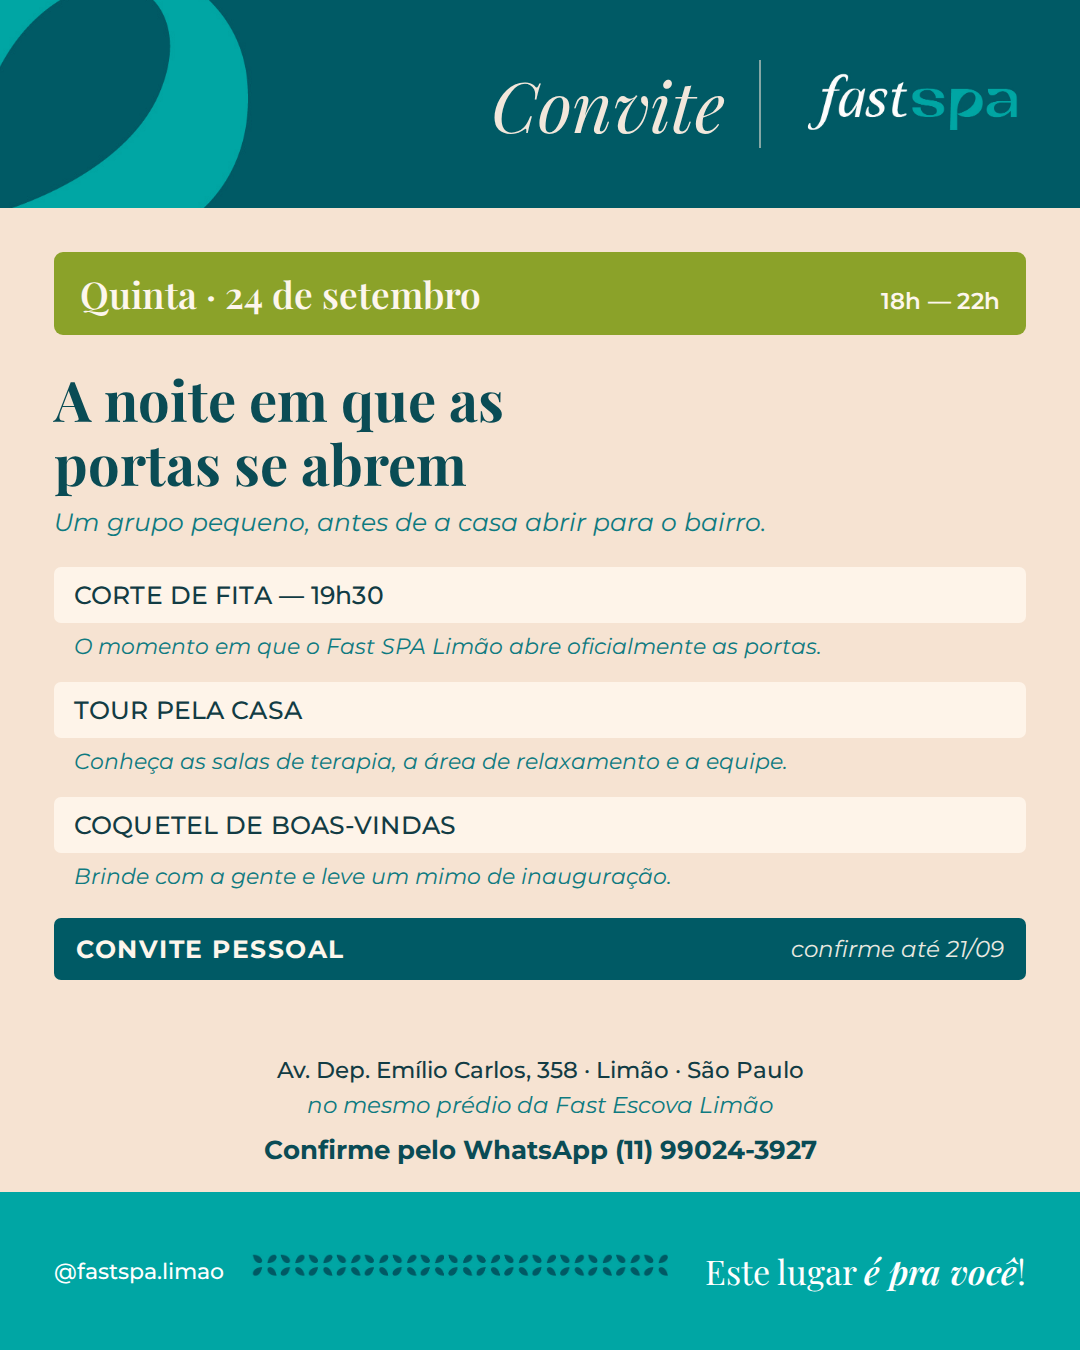
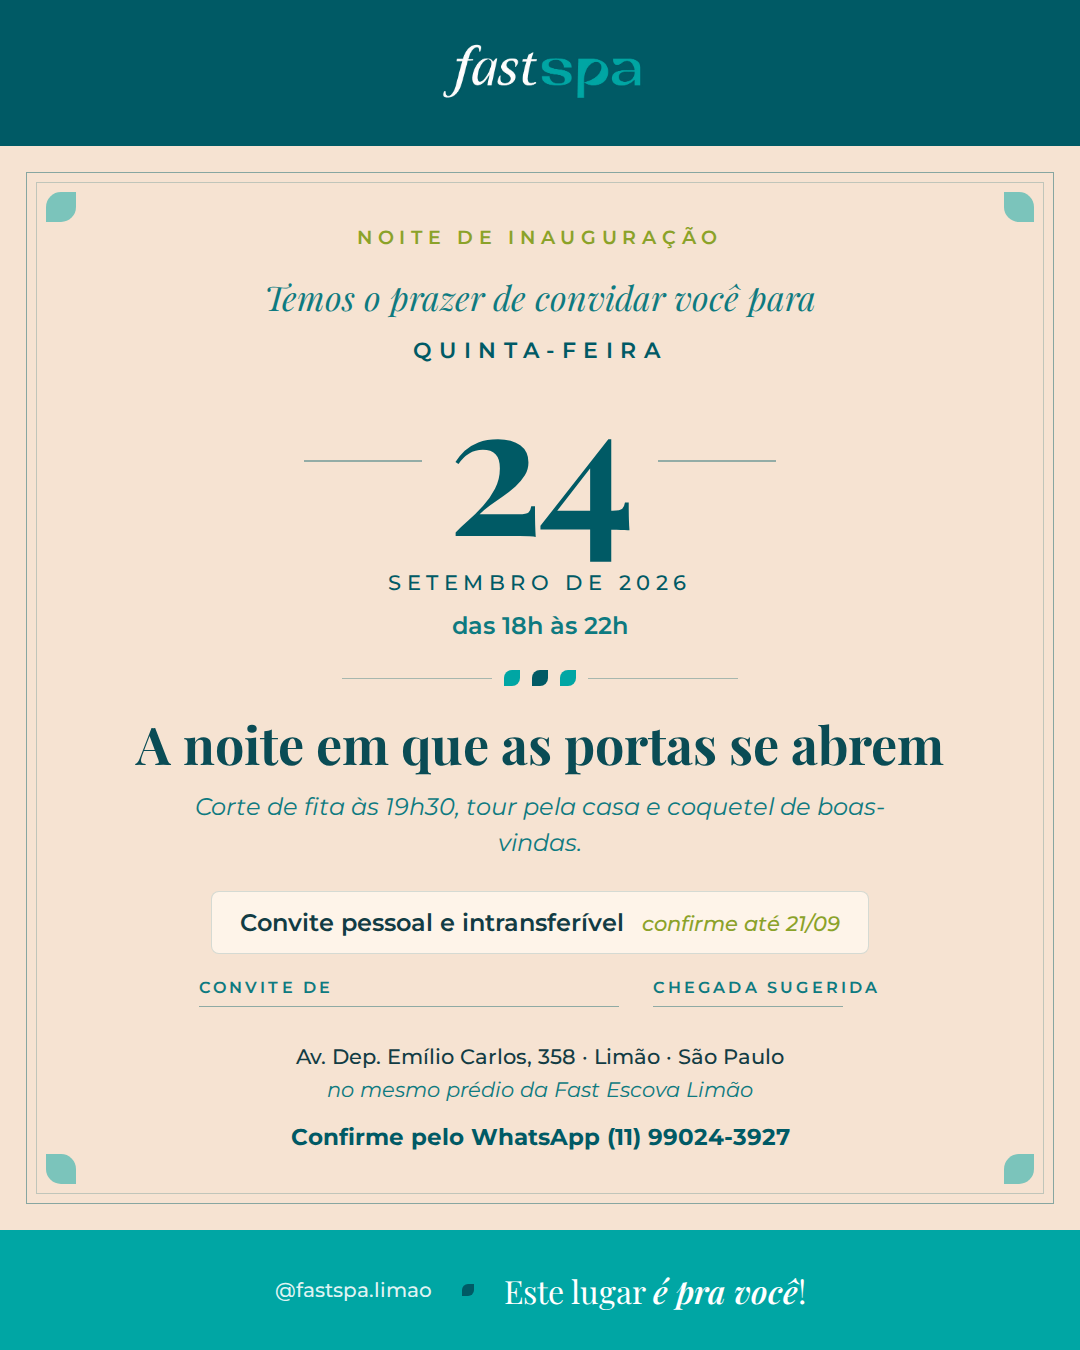
redesign(convites): composição de convite, não de tabela
Recompõe as quatro peças com cara de convite mantendo a paleta e a marca:
tarja da marca no topo, moldura dupla com pétalas nos cantos, chamada
("Você está convidada para"), data em destaque entre fios, cortesia em
uma linha e campos manuscritos para nome e horário. Ornamentos de pétala
agora são desenhados em CSS, nas cores da paleta.

Claude-Session: https://claude.ai/code/session_01RuVKoBzerrtwzTvPt2dZAB

Changed region(s): [[0.0, 0.0, 1.0, 0.7467], [0.0, 0.7778, 1.0, 0.9644], [0.0, 0.0, 0.0611, 0.0622]]

diff --git a/docs/convites/gerar_convites.py b/docs/convites/gerar_convites.py
@@ -1,11 +1,13 @@
 #!/usr/bin/env python3
 """Gera os 4 convites (1080x1350) da inauguração do Fast SPA Limão.
 
-Segue o padrão da Tabela de Serviços oficial (arte_5.pdf):
-  verde-petróleo #005A65 · pêssego #F6E3D2 · linha creme #FEF4E9
-  oliva #8BA229 · turquesa #00A6A4 · carvão #555350
+Paleta e marca da arte oficial (arte_5.pdf):
+  verde-petróleo #005A65 · turquesa #00A6A4 · pêssego #F6E3D2
+  creme #FEF4E9 · oliva #8BA229 · verde claro #C9DC94
   títulos em Playfair Display · textos em Montserrat
-A marca e os ornamentos foram recortados da própria arte (pasta marca/).
+Composição de convite: tarja da marca, moldura dupla, data em destaque,
+campo para o nome e o horário, e a assinatura da rede no rodapé.
+Os ornamentos de pétala são desenhados em CSS, na cor da paleta.
 
 Uso: python3 gerar_convites.py   (precisa do Chromium do Playwright)
 """
@@ -18,67 +20,47 @@ CHROME = "/opt/pw-browsers/chromium_headless_shell-1194/chrome-linux/headless_sh
 CARDS = [
     dict(
         arq="convite-24-qui",
-        barra="Quinta · 24 de setembro", horas="18h — 22h",
-        titulo="A noite em que as<br>portas se abrem",
-        linha="Um grupo pequeno, antes de a casa abrir para o bairro.",
-        itens=[
-            ("CORTE DE FITA — 19h30",
-             "O momento em que o Fast SPA Limão abre oficialmente as portas."),
-            ("TOUR PELA CASA",
-             "Conheça as salas de terapia, a área de relaxamento e a equipe."),
-            ("COQUETEL DE BOAS-VINDAS",
-             "Brinde com a gente e leve um mimo de inauguração."),
-        ],
-        destaque="CONVITE PESSOAL", destaque_dir="confirme até 21/09",
-        destaque_bg="#005A65", destaque_fg="#FDF6EC",
+        kicker="Noite de inauguração",
+        abre="Temos o prazer de convidar você para",
+        dow="quinta-feira", num="24", mes="setembro de 2026", horas="das 18h às 22h",
+        titulo="A noite em que as portas se abrem",
+        sub="Corte de fita às 19h30, tour pela casa e coquetel de boas-vindas.",
+        cortesia="Convite pessoal e intransferível",
+        cortesia_dir="confirme até 21/09",
+        campo="Convite de", campo2="chegada sugerida",
     ),
     dict(
         arq="convite-25-sex",
-        barra="Sexta · 25 de setembro", horas="10h — 20h · hora marcada",
-        titulo="Sexta é o dia<br>das clientes de casa",
-        linha="O SPA abre primeiro para quem já é da Fast.",
-        itens=[
-            ("RENOVE-SE EM 45' — sessão de 20min",
-             "Massagem personalizada: você escolhe relaxante, drenagem ou modeladora."),
-            ("DRENAGEM LINFÁTICA FACIAL — 15min",
-             "Desincha o rosto e devolve viço e leveza em poucos minutos."),
-            ("HORA MARCADA NO SEU NOME",
-             "Você chega no seu horário e não pega fila."),
-        ],
-        destaque="CORTESIA DE INAUGURAÇÃO", destaque_dir="valor R$ 149,00",
-        destaque_bg="#C9DC94", destaque_fg="#3C4F14",
+        kicker="Abertura oficial",
+        abre="Você está convidada para",
+        dow="sexta-feira", num="25", mes="setembro de 2026", horas="das 10h às 20h · hora marcada",
+        titulo="O dia das clientes de casa",
+        sub="O SPA abre primeiro para quem já é da Fast, antes do bairro.",
+        cortesia="Renove-se em 45' · sessão de 20 min",
+        cortesia_dir="cortesia · valor R$ 149",
+        campo="Convite de", campo2="seu horário",
     ),
     dict(
         arq="convite-26-sab",
-        barra="Sábado · 26 de setembro", horas="9h — 19h · hora marcada",
-        titulo="Venha<br>e traga uma amiga",
-        linha="Duas cortesias no mesmo horário, lado a lado.",
-        itens=[
-            ("VOCÊ E UMA AMIGA",
-             "As duas experimentam juntas, no mesmo horário, em salas vizinhas."),
-            ("QUICK MASSAGE — 20min",
-             "Solta pescoço, ombros e trapézio — o clássico de quem passa o dia sentada."),
-            ("MÚSICA E MINI-BAR",
-             "A casa aberta o dia inteiro, das 9h às 19h."),
-        ],
-        destaque="DUAS CORTESIAS", destaque_dir="valor R$ 118,00",
-        destaque_bg="#C9DC94", destaque_fg="#3C4F14",
+        kicker="Dia da comunidade",
+        abre="Você e uma amiga estão convidadas para",
+        dow="sábado", num="26", mes="setembro de 2026", horas="das 9h às 19h · hora marcada",
+        titulo="O dia de trazer quem você gosta",
+        sub="Duas cortesias no mesmo horário, em salas vizinhas.",
+        cortesia="Quick Massage · 20 min para as duas",
+        cortesia_dir="cortesia · valor R$ 118",
+        campo="Convite de", campo2="seu horário",
     ),
     dict(
         arq="convite-27-dom",
-        barra="Domingo · 27 de setembro", horas="10h — 17h · por ordem de chegada",
-        titulo="Domingo<br>o SPA é do bairro",
-        linha="Sem hora marcada: é chegar e conhecer.",
-        itens=[
-            ("SEM AGENDAMENTO",
-             "Chegue, pegue sua senha na entrada e aguarde pouco."),
-            ("REVITALIZAÇÃO DAS MÃOS — 10min",
-             "Hidrata intensamente e suaviza as linhas finas causadas pela rotina."),
-            ("VOUCHER PARA VOLTAR",
-             "Você sai com um voucher válido na semana seguinte."),
-        ],
-        destaque="ENTRADA LIVRE", destaque_dir="valor R$ 59,00",
-        destaque_bg="#C9DC94", destaque_fg="#3C4F14",
+        kicker="Portas abertas",
+        abre="Você está convidada para",
+        dow="domingo", num="27", mes="setembro de 2026", horas="das 10h às 17h · por ordem de chegada",
+        titulo="O domingo em que o SPA é do bairro",
+        sub="Sem hora marcada: é chegar, pegar sua senha e conhecer.",
+        cortesia="Revitalização das Mãos · 10 min",
+        cortesia_dir="cortesia · valor R$ 59",
+        campo="Convite de", campo2="",
     ),
 ]
 
@@ -89,85 +71,125 @@ html,body{{width:1080px;height:1350px;overflow:hidden}}
 body{{background:#F6E3D2;font-family:'Montserrat',sans-serif;color:#123C44;
   -webkit-font-smoothing:antialiased}}
 
-/* ---------- cabeçalho ---------- */
-.head{{height:208px;background:#005A65;position:relative;display:flex;
-  align-items:center;justify-content:flex-end;padding:0 54px 0 0;overflow:hidden}}
-.head .comma{{position:absolute;left:-26px;top:-34px;height:262px}}
-.head .titulo{{font-family:'Playfair Display',serif;font-style:italic;font-weight:400;
-  font-size:70px;color:#F2E7DB;line-height:1}}
-.head .barra{{width:2px;height:88px;background:rgba(242,231,219,.55);margin:0 34px}}
-.head .logo{{height:74px}}
+/* tarja da marca */
+.marca{{height:146px;background:#005A65;display:flex;align-items:center;justify-content:center}}
+.marca img{{height:70px}}
 
-/* ---------- corpo ---------- */
-.corpo{{padding:44px 54px 0;display:flex;flex-direction:column;height:calc(1350px - 208px - 158px)}}
+/* moldura */
+.folha{{position:relative;height:calc(1350px - 146px - 120px);padding:34px}}
+.moldura{{position:absolute;inset:26px;border:1.6px solid rgba(0,90,101,.45)}}
+.moldura::after{{content:"";position:absolute;inset:9px;border:1px solid rgba(0,90,101,.22)}}
+.canto{{position:absolute;width:30px;height:30px;background:#00A6A4;opacity:.5;
+  border-radius:50% 0 50% 0}}
+.c1{{left:46px;top:46px;transform:rotate(0deg)}}
+.c2{{right:46px;top:46px;transform:rotate(90deg)}}
+.c3{{right:46px;bottom:46px;transform:rotate(180deg)}}
+.c4{{left:46px;bottom:46px;transform:rotate(270deg)}}
 
-.faixa{{background:#8BA229;border-radius:9px;padding:17px 26px;display:flex;
-  align-items:baseline;justify-content:space-between;gap:20px}}
-.faixa b{{font-family:'Playfair Display',serif;font-weight:600;font-size:37px;color:#FDF6EC}}
-.faixa span{{font-size:23px;font-weight:600;color:#FDF6EC;letter-spacing:.01em}}
+.dentro{{position:relative;height:100%;display:flex;flex-direction:column;
+  align-items:center;text-align:center;padding:46px 80px 40px}}
 
-h1{{font-family:'Playfair Display',serif;font-weight:700;font-size:56px;line-height:1.14;
-  color:#0A4C55;margin-top:32px}}
-.linha{{font-style:italic;font-size:25px;color:#0E7A80;margin-top:12px}}
+.kicker{{font-size:19px;font-weight:600;letter-spacing:.30em;text-transform:uppercase;
+  color:#8BA229}}
+.abre{{font-family:'Playfair Display',serif;font-style:italic;font-size:34px;
+  color:#0E7A80;margin-top:26px;line-height:1.3}}
 
-.itens{{margin-top:30px;display:flex;flex-direction:column;gap:20px}}
-.item .nome{{background:#FEF4E9;border-radius:7px;padding:13px 20px;font-size:25px;
-  font-weight:500;color:#123C44;letter-spacing:.005em}}
-.item .desc{{font-style:italic;font-size:21.5px;line-height:1.45;color:#0E7A80;
-  padding:8px 20px 0}}
+/* data */
+.data{{margin-top:18px;display:flex;flex-direction:column;align-items:center}}
+.data .dow{{font-size:22px;font-weight:600;letter-spacing:.34em;text-transform:uppercase;
+  color:#005A65}}
+.data .nrow{{display:flex;align-items:center;gap:26px;margin:6px 0 18px}}
+.data .rule{{width:118px;height:1.4px;background:rgba(0,90,101,.4)}}
+.data .num{{font-family:'Playfair Display',serif;font-weight:700;font-size:182px;
+  line-height:1;color:#005A65;letter-spacing:-.02em}}
+.data .mes{{font-size:21px;font-weight:500;letter-spacing:.26em;text-transform:uppercase;
+  color:#005A65}}
+.data .horas{{margin-top:16px;font-size:24px;font-weight:600;color:#0E7A80}}
 
-.destaque{{margin-top:26px;background:{destaque_bg};border-radius:7px;padding:16px 22px;
-  display:flex;align-items:center;justify-content:space-between;gap:18px}}
-.destaque b{{font-size:25px;font-weight:700;color:{destaque_fg};letter-spacing:.06em}}
-.destaque span{{font-style:italic;font-size:23px;color:{destaque_fg};opacity:.92}}
+/* divisor com pétalas */
+.div{{display:flex;align-items:center;gap:12px;margin-top:30px}}
+.div .ln{{width:150px;height:1.2px;background:rgba(0,90,101,.32)}}
+.div .pt{{width:16px;height:16px;background:#00A6A4;border-radius:50% 0 50% 0}}
+.div .pt.d{{background:#005A65}}
 
-.local{{margin-top:auto;padding-bottom:26px;text-align:center}}
-.local .end{{font-size:23px;font-weight:500;color:#123C44;line-height:1.5}}
-.local .end em{{font-style:italic;font-weight:400;color:#0E7A80}}
-.local .zap{{margin-top:12px;font-size:26px;font-weight:700;color:#0A4C55}}
+h1{{font-family:'Playfair Display',serif;font-weight:700;font-size:52px;line-height:1.16;
+  color:#0A4C55;margin-top:28px;max-width:820px}}
+.sub{{font-style:italic;font-size:24px;line-height:1.5;color:#0E7A80;margin-top:14px;
+  max-width:740px}}
 
-/* ---------- rodapé ---------- */
-.pe{{height:158px;background:#00A6A4;display:flex;align-items:center;
-  justify-content:space-between;padding:0 54px;gap:26px}}
-.pe .ig{{font-size:22px;font-weight:500;color:#FFFFFF;white-space:nowrap}}
-.pe .faixa-orn{{height:46px;flex:none}}
-.pe .tag{{font-family:'Playfair Display',serif;font-size:34px;color:#FFFFFF;white-space:nowrap}}
+.cortesia{{margin-top:30px;background:#FEF4E9;border:1px solid rgba(0,90,101,.16);
+  border-radius:8px;padding:16px 28px;display:flex;align-items:baseline;gap:18px}}
+.cortesia b{{font-size:24px;font-weight:600;color:#123C44}}
+.cortesia span{{font-style:italic;font-size:21px;color:#8BA229;font-weight:500}}
+
+.campos{{margin-top:auto;width:100%;display:flex;gap:34px;justify-content:center;
+  align-items:flex-end}}
+.campo{{display:flex;flex-direction:column;align-items:flex-start;gap:9px}}
+.campo i{{font-style:normal;font-size:16px;font-weight:600;letter-spacing:.20em;
+  text-transform:uppercase;color:#0E7A80}}
+.campo u{{display:block;height:1.4px;background:rgba(0,90,101,.42);text-decoration:none}}
+.campo.nome u{{width:420px}}
+.campo.hora u{{width:190px}}
+
+.local{{margin-top:34px;font-size:21px;font-weight:500;line-height:1.55;color:#123C44}}
+.local em{{font-style:italic;font-weight:400;color:#0E7A80}}
+.local .zap{{display:block;margin-top:14px;font-size:23px;font-weight:700;color:#005A65}}
+
+/* rodapé */
+.pe{{height:120px;background:#00A6A4;display:flex;align-items:center;
+  justify-content:center;gap:30px}}
+.pe .tag{{font-family:'Playfair Display',serif;font-size:32px;color:#FFFFFF}}
 .pe .tag i{{font-style:italic;font-weight:600}}
+.pe .ig{{font-size:20px;font-weight:500;color:rgba(255,255,255,.9)}}
+.pe .sep{{width:12px;height:12px;background:#005A65;border-radius:50% 0 50% 0}}
 </style></head><body>
 
-<div class="head">
-  <img class="comma" src="marca/ornamento_comma.png" alt="">
-  <span class="titulo">Convite</span>
-  <span class="barra"></span>
-  <img class="logo" src="marca/logo_fastspa.png" alt="fast spa">
-</div>
+<div class="marca"><img src="marca/logo_fastspa.png" alt="fast spa"></div>
 
-<div class="corpo">
-  <div class="faixa"><b>{barra}</b><span>{horas}</span></div>
-  <h1>{titulo}</h1>
-  <p class="linha">{linha}</p>
-  <div class="itens">{itens_html}</div>
-  <div class="destaque"><b>{destaque}</b><span>{destaque_dir}</span></div>
-  <div class="local">
-    <p class="end">Av. Dep. Emílio Carlos, 358 · Limão · São Paulo<br>
-      <em>no mesmo prédio da Fast Escova Limão</em></p>
-    <p class="zap">Confirme pelo WhatsApp (11) 99024-3927</p>
+<div class="folha">
+  <div class="moldura"></div>
+  <span class="canto c1"></span><span class="canto c2"></span>
+  <span class="canto c3"></span><span class="canto c4"></span>
+
+  <div class="dentro">
+    <div class="kicker">{kicker}</div>
+    <p class="abre">{abre}</p>
+
+    <div class="data">
+      <span class="dow">{dow}</span>
+      <span class="nrow"><i class="rule"></i><span class="num">{num}</span><i class="rule"></i></span>
+      <span class="mes">{mes}</span>
+      <span class="horas">{horas}</span>
+    </div>
+
+    <div class="div"><i class="ln"></i><i class="pt"></i><i class="pt d"></i><i class="pt"></i><i class="ln"></i></div>
+
+    <h1>{titulo}</h1>
+    <p class="sub">{sub}</p>
+
+    <div class="cortesia"><b>{cortesia}</b><span>{cortesia_dir}</span></div>
+
+    <div class="campos">{campos_html}</div>
+
+    <p class="local">Av. Dep. Emílio Carlos, 358 · Limão · São Paulo<br>
+      <em>no mesmo prédio da Fast Escova Limão</em>
+      <span class="zap">Confirme pelo WhatsApp (11) 99024-3927</span></p>
   </div>
 </div>
 
 <div class="pe">
   <span class="ig">@fastspa.limao</span>
-  <img class="faixa-orn" src="marca/ornamento_faixa.png" alt="">
+  <i class="sep"></i>
   <span class="tag">Este lugar <i>é pra você</i>!</span>
 </div>
 
 </body></html>"""
 
 for c in CARDS:
-    itens_html = "".join(
-        '<div class="item"><div class="nome">%s</div><div class="desc">%s</div></div>' % (n, d)
-        for n, d in c["itens"])
-    html = TPL.format(fonts=FONTS, itens_html=itens_html, **c)
+    campos = '<div class="campo nome"><i>%s</i><u></u></div>' % c["campo"]
+    if c["campo2"]:
+        campos += '<div class="campo hora"><i>%s</i><u></u></div>' % c["campo2"]
+    html = TPL.format(fonts=FONTS, campos_html=campos, **c)
     p = BASE / (c["arq"] + ".html")
     p.write_text(html, encoding="utf-8")
     out = BASE / (c["arq"] + ".png")
